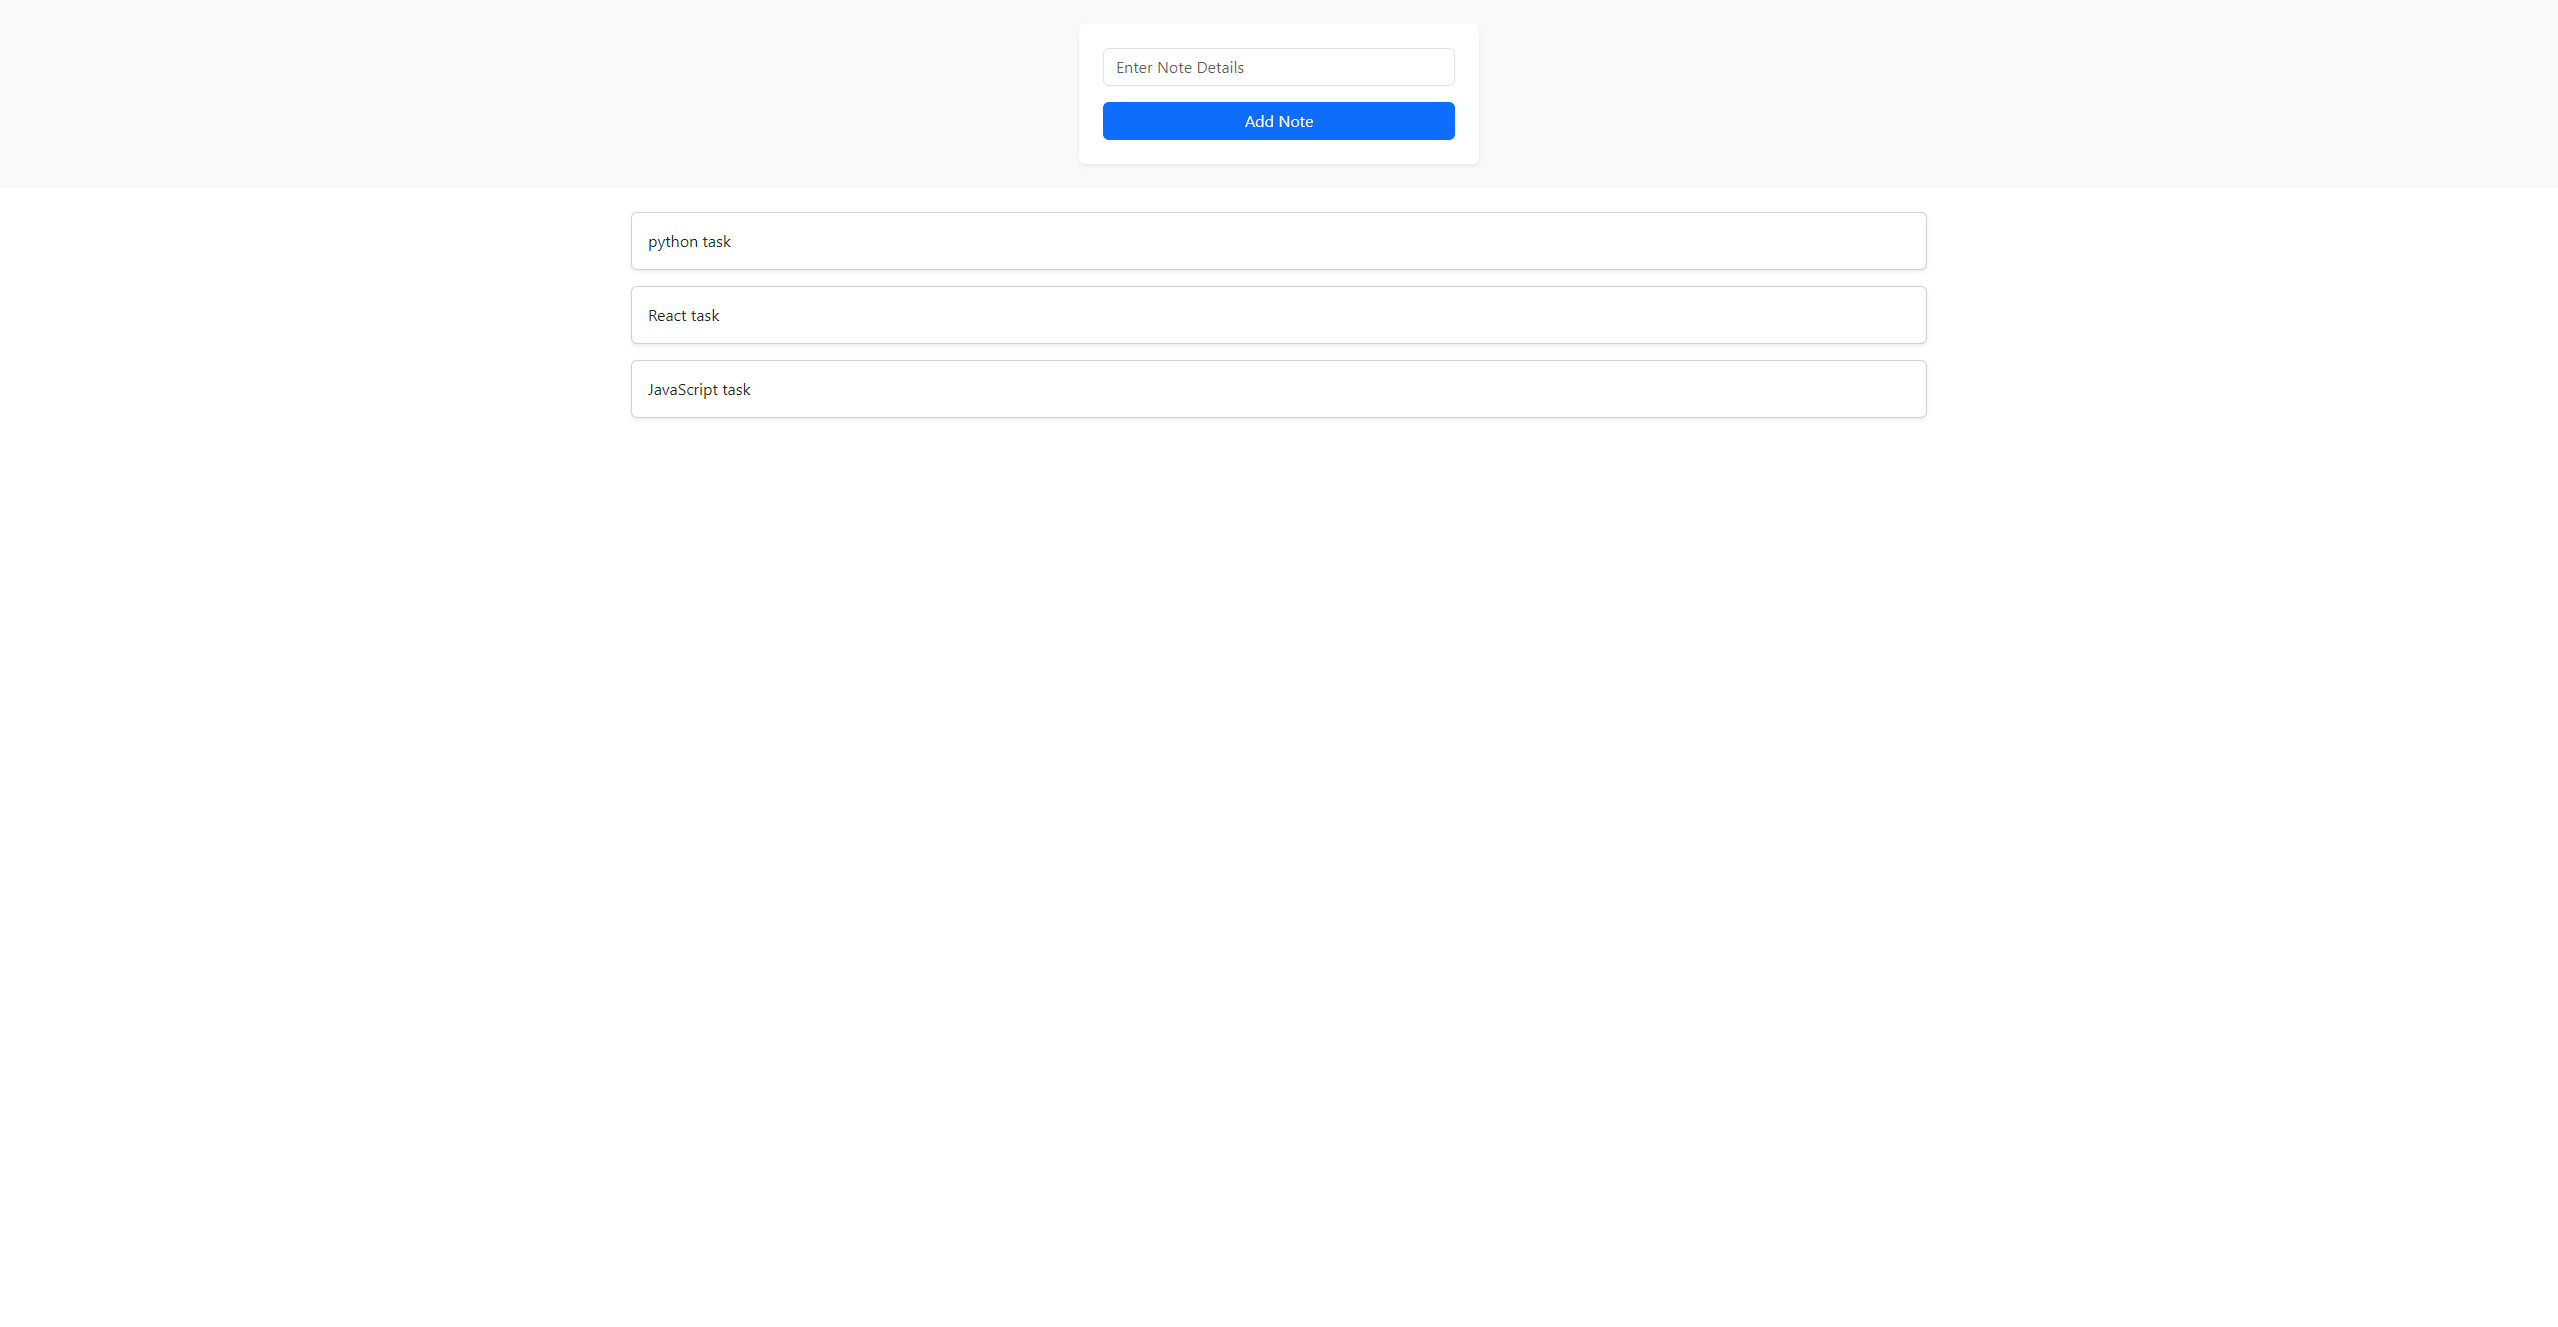
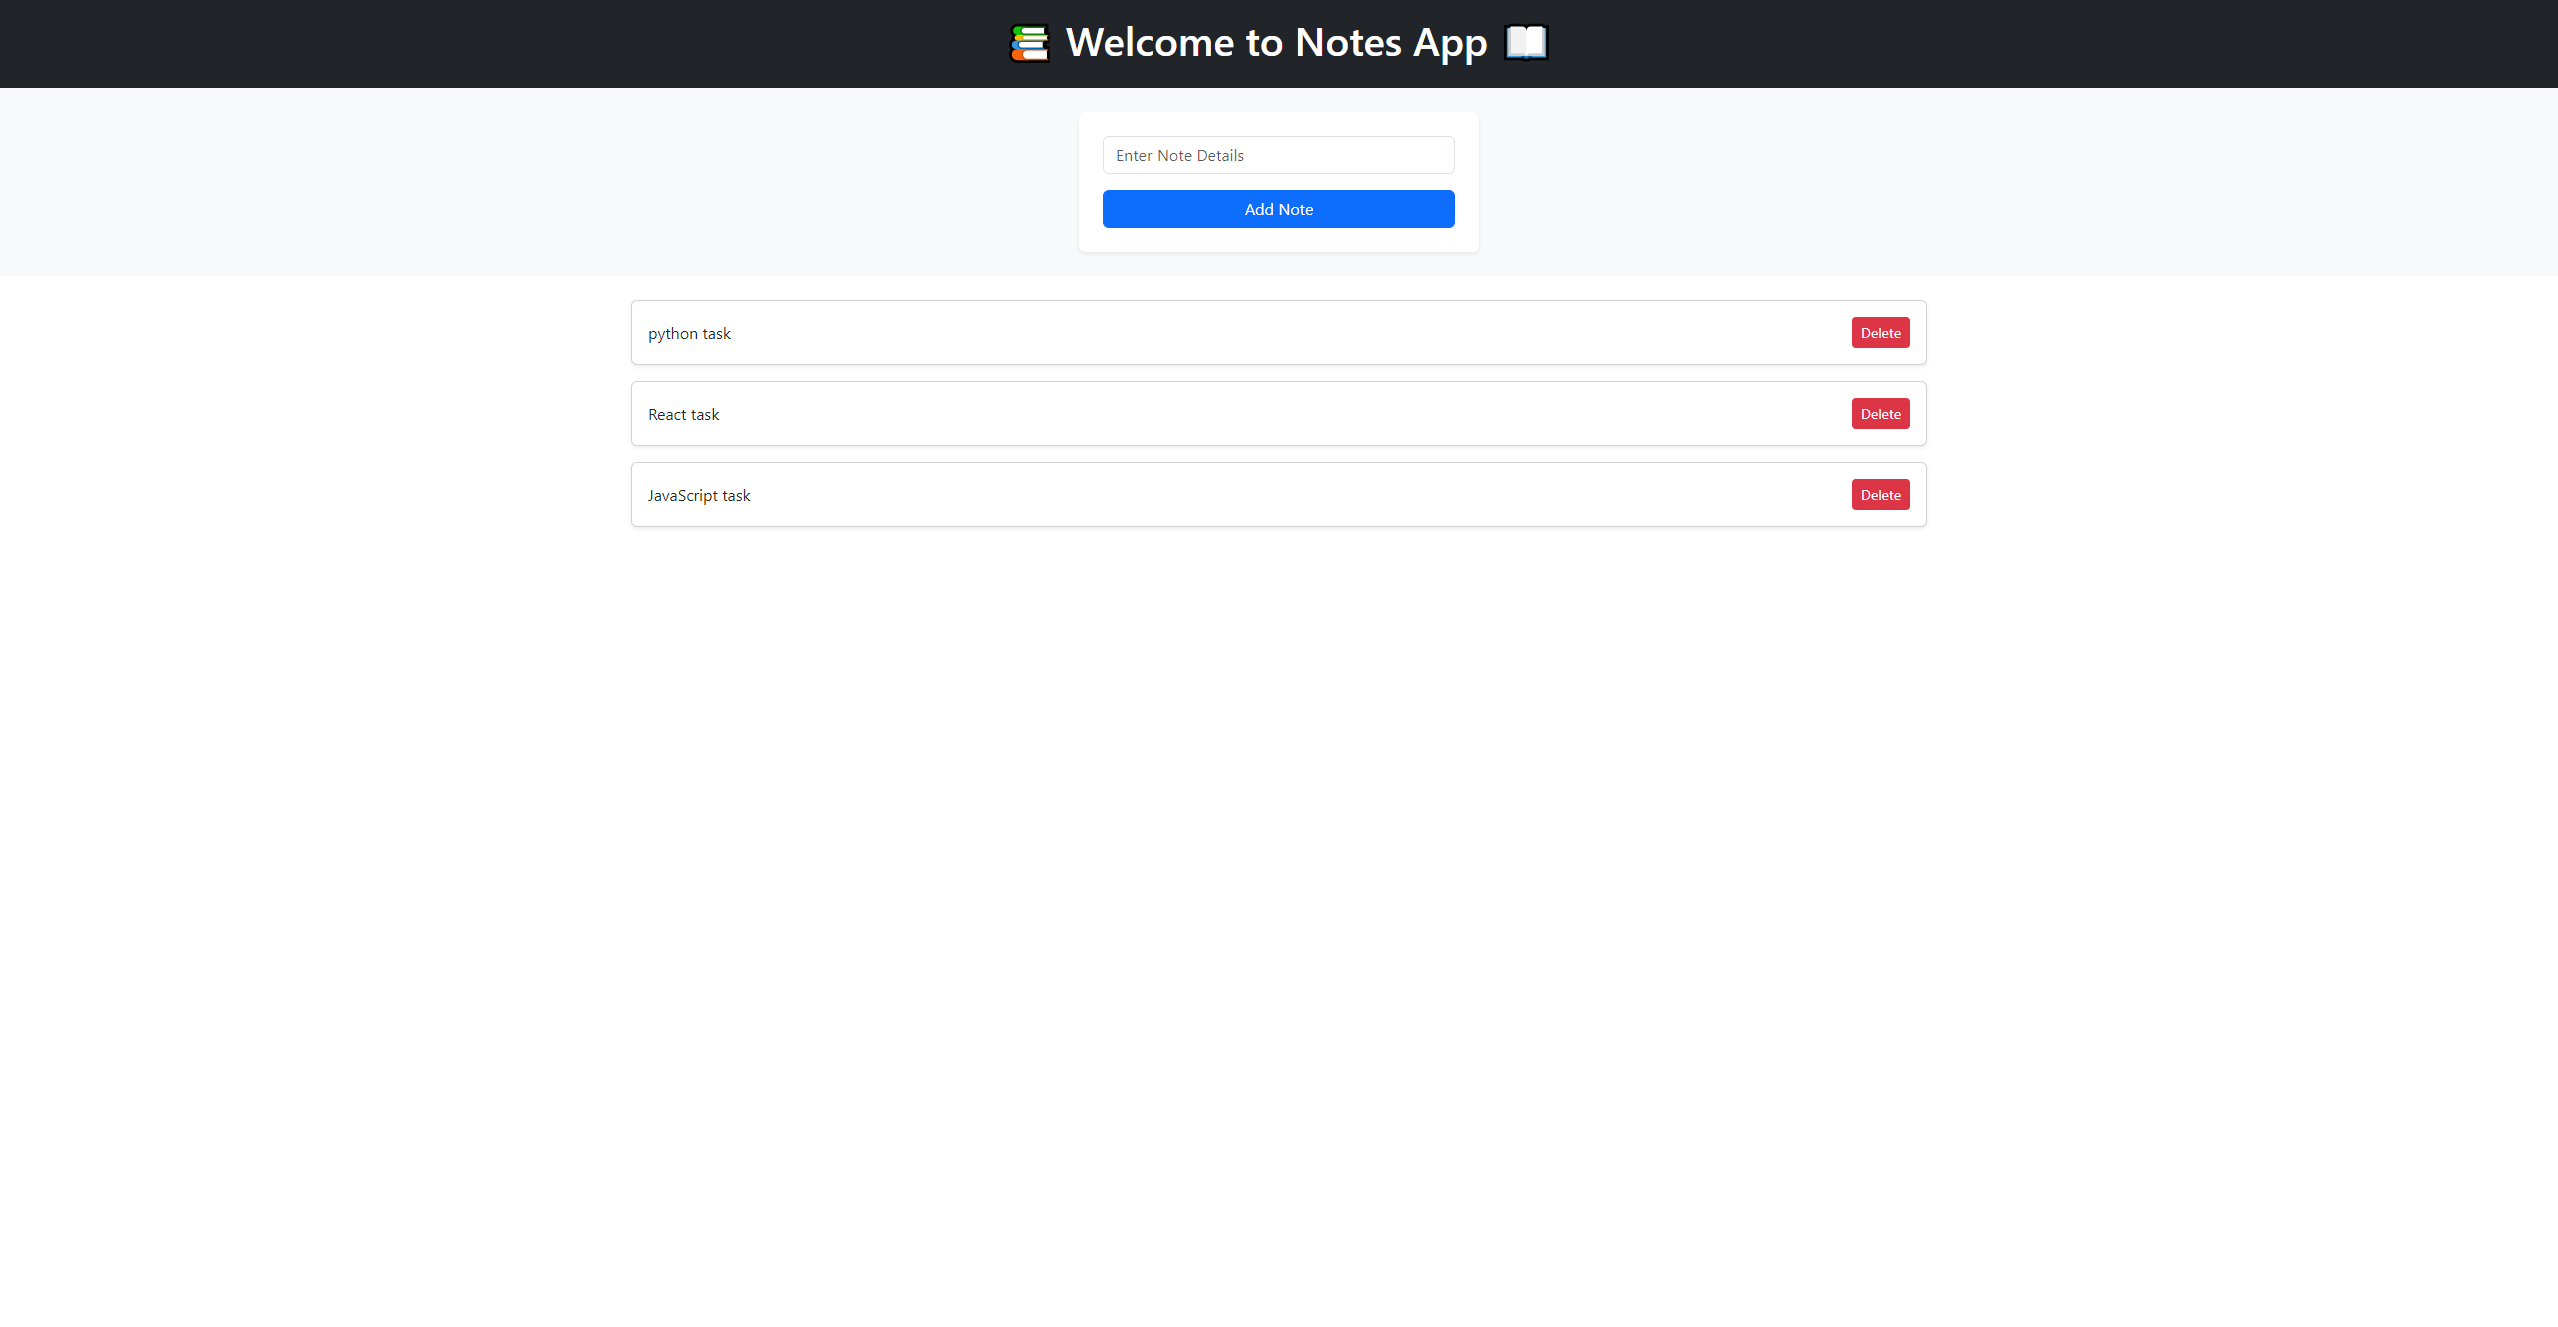
add delete Button & Title

diff --git a/src/App.jsx b/src/App.jsx
@@ -31,15 +31,16 @@ const CreatePost = ({ notes, setNotes, usertext, setUserText }) => {
     );
 };
 
-const Posts = ({ notes }) => {
+const Posts = ({ notes, deleteNote }) => {
     return (
         <div className="container mt-4">
             <div className="row">
                 {notes.map((note, index) => (
                     <div key={index} className="col-12 mb-3">
                         <div className="card shadow-sm h-100">
-                            <div className="card-body">
-                                <p className="card-text">{note}</p>
+                            <div className="card-body d-flex justify-content-between align-items-center">
+                                <p className="card-text mb-0">{note}</p>
+                                <button className="btn btn-danger btn-sm" onClick={() => deleteNote(index)}>Delete</button>
                             </div>
                         </div>
                     </div>
@@ -53,10 +54,17 @@ function App() {
     const [notes, setNotes] = useState([]);
     const [usertext, setUserText] = useState("");
 
+    const deleteNote = (index) => {
+        setNotes(notes.filter((_, i) => i !== index));
+    };
+
     return (
         <div className="App d-flex flex-column min-vh-100">
+            <header className="bg-dark text-white text-center py-3">
+                <h1>📚 Welcome to Notes App 📖</h1>
+            </header>
             <CreatePost notes={notes} setNotes={setNotes} usertext={usertext} setUserText={setUserText} />
-            <Posts notes={notes} />
+            <Posts notes={notes} deleteNote={deleteNote} />
         </div>
     );
 }
